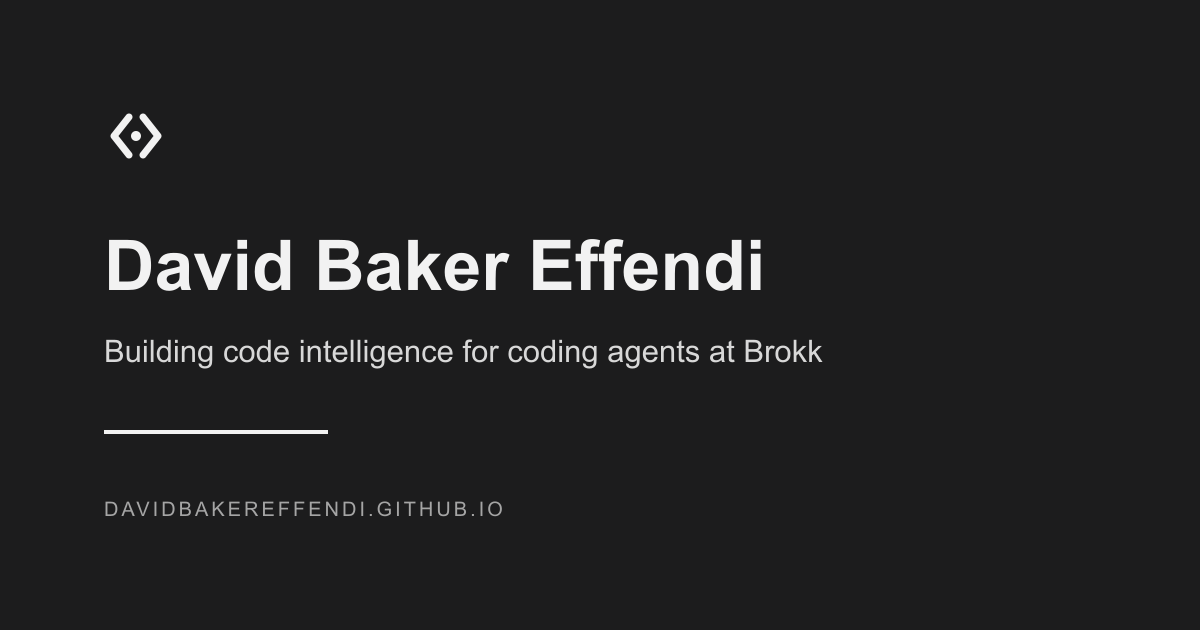
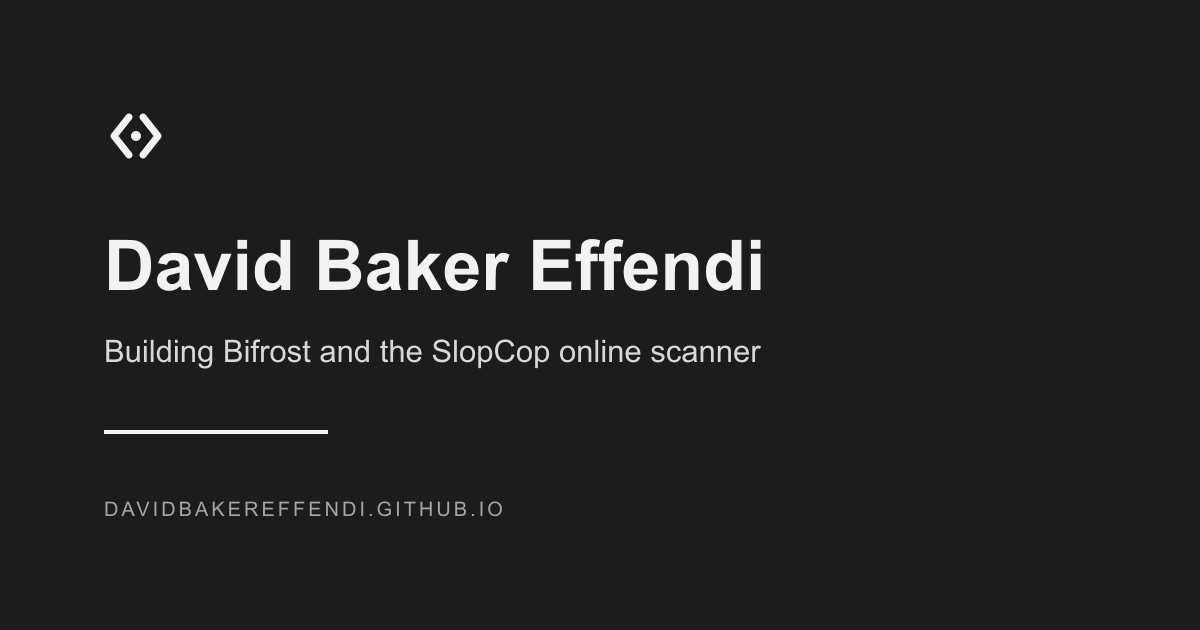
Refresh SlopCop branding and highlight Bifrost and scanner work

Changed region(s): [[0.185, 0.5429, 0.6783, 0.6032]]

diff --git a/_pages/about.md b/_pages/about.md
@@ -2,7 +2,7 @@
 layout: about
 title: About
 permalink: /
-subtitle: Building code intelligence for agents at <a href="https://brokk.ai">Brokk</a>
+subtitle: Building Bifrost and the online scanner at <a href="https://slopcop.com">SlopCop</a>
 
 profile:
   align: right
@@ -25,14 +25,16 @@ latest_posts:
   limit: 3 # leave blank to include all the blog posts
 ---
 
-I build open-source, multi-language code intelligence for coding agents at [Brokk](https://brokk.ai). [Bifrost](https://github.com/BrokkAi/bifrost) gives agents and developer tools a structural view of unbuilt or partially broken repositories, including mixed-language workspaces.
+My main work at [SlopCop](https://slopcop.com) is [Bifrost](/projects/bifrost/) and the [SlopCop online scanner](/projects/slopcop/). I develop the code intelligence underneath and the repository reviews that put it to use.
 
-The analysis stack is available as a Rust crate, MCP server, LSP, and CLI. Its S-expression query language supports portable structural queries, with semantic layers for relationships such as usages, imports, and type hierarchies built on demand. My work sits at the intersection of static analysis, program verification, and AI-assisted software engineering.
+[Bifrost](https://github.com/BrokkAi/bifrost) is an open-source, multi-language static-analysis toolbox. It gives coding agents and developer tools a structural view of unbuilt or partially broken repositories, including mixed-language workspaces. The engine is available as a Rust crate, MCP server, LSP, CLI, and Python client, with queries for code structure and relationships such as usages, imports, and type hierarchies.
 
-<div class="homepage-cta" aria-label="Bifrost resources">
-  <a class="btn btn-outline-primary" href="https://github.com/BrokkAi/bifrost">View the source</a>
-  <a class="btn btn-outline-primary" href="https://brokkai.github.io/bifrost/">Read the documentation</a>
-  <a class="btn btn-outline-primary" href="https://brokkai.github.io/bifrost/code-querying/">Explore query examples</a>
+[SlopCop](https://slopcop.com) brings that analysis into an online repository review. Static checks surface leads; deeper AI review examines the surrounding code and proposes fixes. Findings keep their source evidence and coverage limits visible, so developers can check the diagnosis and decide what to change.
+
+<div class="homepage-cta" aria-label="Bifrost and SlopCop resources">
+  <a class="btn btn-outline-primary" href="https://slopcop.com">Scan a repository</a>
+  <a class="btn btn-outline-primary" href="https://github.com/BrokkAi/bifrost">Bifrost source</a>
+  <a class="btn btn-outline-primary" href="https://brokkai.github.io/bifrost/">Bifrost documentation</a>
   <a class="btn btn-outline-primary" href="https://twitter.com/SDBakerEffendi">Follow development on Twitter/X</a>
 </div>
 
@@ -42,6 +44,6 @@ I came to coding agents through program analysis. My PhD at [Stellenbosch Univer
 
 From 2022 to June 2025, I applied that research at [Whirly Labs](https://whirlylabs.com), leading the development of tailored static-analysis systems for clients. That work shifted my focus from analysis as a research artifact toward code intelligence as dependable product infrastructure: tools that must remain useful on large, evolving, and occasionally broken codebases.
 
-Since 2025, I have been bringing those lessons to AI-assisted software engineering at [Brokk](https://brokk.ai). My current work on [Bifrost](/projects/bifrost/) and [Anvil](/projects/anvil/) focuses on giving coding agents reliable structural context and a reusable execution environment, rather than asking language models to infer everything from text alone.
+Since 2025, I have been bringing those lessons to AI-assisted software engineering at [SlopCop](https://slopcop.com). Bifrost and the online scanner connect my work in static analysis and program verification to practical code review: finding a suspicious pattern, checking the evidence, and helping people and coding agents make a useful fix.
 
 I remain connected to Stellenbosch University as a visiting lecturer and postgraduate co-supervisor in static program analysis.

diff --git a/_pages/blog.md b/_pages/blog.md
@@ -7,34 +7,49 @@ nav: true
 nav_order: 4
 ---
 
-Most of my current writing appears on the [Brokk blog](https://blog.brokk.ai/). This page is a curated index rather than a separate personal blog.
+I write about Bifrost, the SlopCop online scanner, and the practical work of building and evaluating static analysis. Most of my current posts appear on the [SlopCop blog](https://blog.brokk.ai/), which is still hosted at blog.brokk.ai. This page is a curated index rather than a separate personal blog.
 
-## Recent writing at Brokk
+## Recent writing at SlopCop
 
 <ul class="post-list">
   <li>
+    <h2><a class="post-title" href="https://blog.brokk.ai/following-untrusted-data-through-a-database/">Following untrusted data through a database</a></h2>
+    <p>Modeling storage boundaries in Bifrost so taint analysis can connect writes to later reads, with explicit API identity, key matching, and analysis limits.</p>
+    <p class="post-meta">SlopCop &nbsp;&middot;&nbsp; September 21, 2026</p>
+  </li>
+  <li>
+    <h2><a class="post-title" href="https://blog.brokk.ai/what-is-the-best-static-analysis-tool-for-your-use-case/">What is the best static analysis tool for your use case?</a></h2>
+    <p>Using DataFlowBench to compare analyzer trade-offs for CI, editor and agent loops, security review, and workflows where false positives matter most.</p>
+    <p class="post-meta">SlopCop &nbsp;&middot;&nbsp; September 9, 2026</p>
+  </li>
+  <li>
+    <h2><a class="post-title" href="https://blog.brokk.ai/the-taint-analysis-power-ranking/">The Taint Analysis Power Ranking</a></h2>
+    <p>How frozen positive and negative cases compare eight analyzers, keeping precision, recall, language coverage, responsiveness, and incomplete results distinct.</p>
+    <p class="post-meta">SlopCop &nbsp;&middot;&nbsp; September 8, 2026</p>
+  </li>
+  <li>
     <h2><a class="post-title" href="https://blog.brokk.ai/why-we-switched-slopcop-to-flash-3-5/">Why we switched SlopCop to Flash 3.5</a></h2>
     <p>A benchmark-driven look at model cost, speed, stability, tool use, and report quality in a multi-agent code-review system.</p>
-    <p class="post-meta">Brokk &nbsp;&middot;&nbsp; June 3, 2026</p>
+    <p class="post-meta">SlopCop &nbsp;&middot;&nbsp; June 3, 2026</p>
   </li>
   <li>
     <h2><a class="post-title" href="https://blog.brokk.ai/slopcop-forensics-for-your-codebase/">SlopCop: Forensics for your codebase</a></h2>
     <p>How static-analysis signals and specialist agents can turn maintainability findings into evidence-backed remediation work.</p>
-    <p class="post-meta">Brokk &nbsp;&middot;&nbsp; May 19, 2026</p>
+    <p class="post-meta">SlopCop &nbsp;&middot;&nbsp; May 19, 2026</p>
   </li>
   <li>
     <h2><a class="post-title" href="https://blog.brokk.ai/building-a-javascript-reference-graph-with-an-agent/">Building a JavaScript Reference Graph With an Agent</a></h2>
     <p>Lessons from using an agent, domain expertise, adversarial tests, and iterative review to build production reference analysis.</p>
-    <p class="post-meta">Brokk &nbsp;&middot;&nbsp; May 4, 2026</p>
+    <p class="post-meta">SlopCop &nbsp;&middot;&nbsp; May 4, 2026</p>
   </li>
   <li>
     <h2><a class="post-title" href="https://blog.brokk.ai/stop-allocating-nothing-how-we-tripled-java-treesitter-performance/">Stop Allocating Nothing: How We Tripled Java TreeSitter Performance</a></h2>
     <p>Tracing unnecessary JNI allocations and garbage-collection pressure to a small null-node handling path.</p>
-    <p class="post-meta">Brokk &nbsp;&middot;&nbsp; April 23, 2026</p>
+    <p class="post-meta">SlopCop &nbsp;&middot;&nbsp; April 23, 2026</p>
   </li>
 </ul>
 
-[See all posts on the Brokk blog](https://blog.brokk.ai/author/david/) or [subscribe to its RSS feed](https://blog.brokk.ai/rss/).
+[See all posts on the SlopCop blog](https://blog.brokk.ai/author/david/) or [subscribe to its RSS feed](https://blog.brokk.ai/rss/).
 
 ## Earlier writing
 

diff --git a/_projects/slopcop.md b/_projects/slopcop.md
@@ -1,0 +1,19 @@
+---
+layout: page
+title: SlopCop
+description: An online repository scanner and living code review built around static-analysis evidence and bounded deeper AI review.
+importance: 2
+category: software
+contribution: Primary developer
+---
+
+SlopCop is an online repository scanner and living code review. It accepts read-only access to selected GitHub repositories, including private repositories, and public repository URLs from GitHub, GitLab, and Bitbucket. Reviews start from the latest default-branch revision without executing repository code, running builds, or installing dependencies.
+
+Its first pass combines static-analysis evidence with findings about correctness, performance, maintainability, tests, credentials, risky APIs, and security-sensitive code. A bounded deeper AI review can add selected source, documentation, architecture, and recent commit context while keeping its scope and incomplete work visible.
+
+SlopCop can propose custom deterministic rules from recurring findings and past fixes. Proposed rules need to be tested against the repository, near misses, and intended behavior before enforcement.
+
+<div class="project-links" aria-label="SlopCop project links">
+  <a class="btn btn-outline-primary" href="https://slopcop.com">Homepage</a>
+  <a class="btn btn-outline-primary" href="https://slopcop.com/repository-analysis">Repository analysis</a>
+</div>

diff --git a/_projects/plume.md b/_projects/plume.md
@@ -2,7 +2,7 @@
 layout: page
 title: Plume
 description: A graph-database-agnostic JVM bytecode frontend and benchmarking suite for code property graph research.
-importance: 4
+importance: 5
 category: open source
 contribution: Past maintainer
 github: https://github.com/plume-oss/plume
@@ -14,7 +14,7 @@ Plume constructs code property graph ASTs from JVM bytecode and stores them acro
 
 I was Plume's primary maintainer from 2020 to 2024. The project supported research into incremental data-flow analysis and graph-database performance, and its original frontend became the basis for Joern's `jimple2cpg` frontend.
 
-Plume remains available for existing users and experiments, but I recommend Joern for new code property graph research. My current open-source development is centered on Bifrost and Anvil.
+Plume remains available for existing users and experiments, but I recommend Joern for new code property graph research. My current work is centered on [Bifrost](/projects/bifrost/) and [SlopCop](/projects/slopcop/).
 
 <div class="project-links" aria-label="Plume project links">
   <a class="btn btn-outline-primary" href="https://github.com/plume-oss/plume">Source</a>

diff --git a/_projects/joern.md b/_projects/joern.md
@@ -2,7 +2,7 @@
 layout: page
 title: Joern
 description: An open-source code-analysis platform based on code property graphs, with contributions across language frontends and analysis infrastructure.
-importance: 3
+importance: 4
 category: open source
 contribution: Past contributor
 github: https://github.com/joernio/joern
@@ -14,7 +14,7 @@ Joern is an open-source platform for analyzing source code, bytecode, and binari
 
 I contributed to Joern's language frontends and analysis infrastructure between 2022 and 2025. That work included Python and Java source analysis, type recovery, traversal performance, contributor tooling, and PHP modeling fixes.
 
-Joern remains an important part of my background in practical, language-aware static analysis. My current open-source work focuses on Bifrost and Anvil at Brokk.
+Joern remains an important part of my background in practical, language-aware static analysis. My current work focuses on [Bifrost](/projects/bifrost/) and [SlopCop](/projects/slopcop/).
 
 <div class="project-links" aria-label="Joern project links">
   <a class="btn btn-outline-primary" href="https://github.com/joernio/joern">Source</a>

diff --git a/_projects/anvil.md b/_projects/anvil.md
@@ -2,13 +2,13 @@
 layout: page
 title: Anvil
 description: A reusable Rust agent backend that gives editors, bots, terminal interfaces, and internal tools the same Agent Client Protocol runtime.
-importance: 2
+importance: 3
 category: open source
 contribution: Active contributor
 github: https://github.com/BrokkAi/anvil
 ---
 
-Anvil is Brokk's open-source Agent Client Protocol (ACP) server. It separates the agent runtime from its user interface, so editors, review bots, terminal clients, and custom automation can share one implementation of model routing, tool execution, permission handling, session storage, and context management.
+Anvil is [SlopCop](https://slopcop.com)'s open-source Agent Client Protocol (ACP) server. It separates the agent runtime from its user interface, so editors, review bots, terminal clients, and custom automation can share one implementation of model routing, tool execution, permission handling, session storage, and context management.
 
 ## One backend, many clients
 

diff --git a/_projects/bifrost.md b/_projects/bifrost.md
@@ -4,11 +4,11 @@ title: Bifrost
 description: Multi-language static analysis that gives coding agents and developer tools a structural view of real repositories, even when the code does not build.
 importance: 1
 category: open source
-contribution: Active contributor
+contribution: Primary developer
 github: https://github.com/BrokkAi/bifrost
 ---
 
-Bifrost is Brokk's open-source, Rust-based static-analysis toolbox for AI coding harnesses, editors, and large repositories. It parses unbuilt or partially broken codebases, including mixed-language workspaces, so tools can navigate code structure and relationships without relying on text search alone.
+Bifrost is [SlopCop](https://slopcop.com)'s open-source, Rust-based static-analysis toolbox for AI coding harnesses, editors, and large repositories. It parses unbuilt or partially broken codebases, including mixed-language workspaces, so tools can navigate code structure and relationships without relying on text search alone.
 
 ## Interfaces
 

diff --git a/_pages/projects.md b/_pages/projects.md
@@ -2,11 +2,13 @@
 layout: page
 title: Projects
 permalink: /projects/
-description: Open-source software for code intelligence, static analysis, and coding agents.
+description: My main work is Bifrost and SlopCop, alongside secondary and historical software projects.
 nav: true
 nav_order: 3
 horizontal: true
 ---
+
+My main work is [Bifrost](/projects/bifrost/), a structural analysis toolkit for coding agents, and [SlopCop](/projects/slopcop/), an online repository scanner built around evidence-backed living reviews. I also contribute to [Anvil](/projects/anvil/); Joern and Plume cover earlier open-source work.
 
 {% assign sorted_projects = site.projects | sort: 'importance' %}
 

diff --git a/_pages/cv.md b/_pages/cv.md
@@ -2,7 +2,7 @@
 layout: cv
 permalink: /cv/
 title: CV
-description: Experience, education, open-source work, and academic background.
+description: Experience, education, Bifrost and SlopCop development, other software contributions, and academic background.
 nav: true
 nav_order: 5
 toc:
